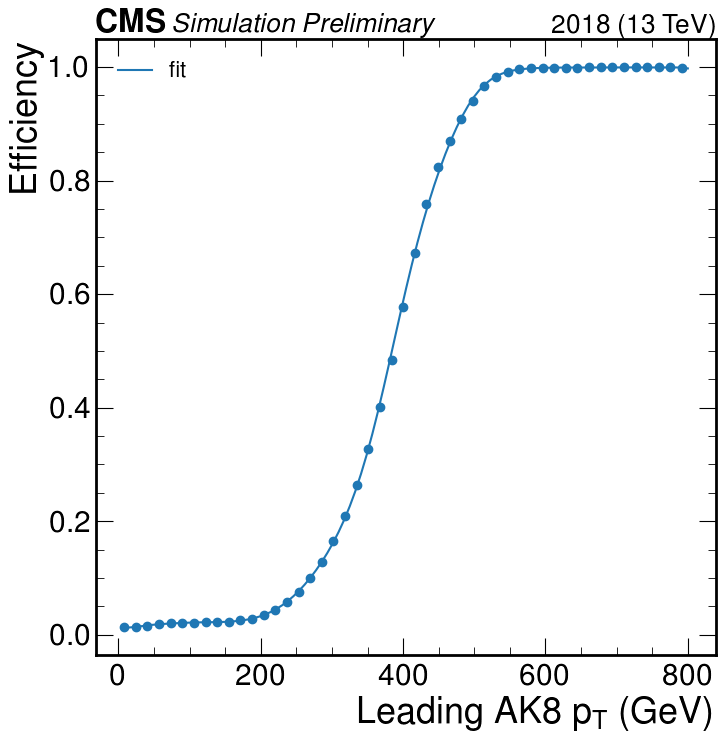
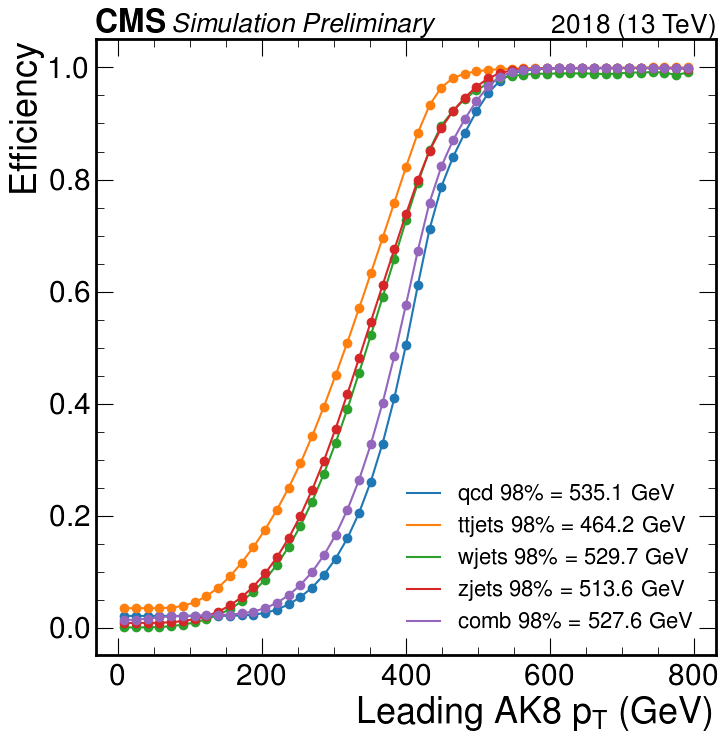
working mt_subl fit

diff --git a/bkg/trigeff_bkg.py b/bkg/trigeff_bkg.py
@@ -16,7 +16,7 @@ BKGS = ['qcd', 'ttjets', 'wjets', 'zjets']
 def main():
     parser = argparse.ArgumentParser()
     parser.add_argument('histograms_file', type=str)
-    parser.add_argument('--var', type=str, default='pt', choices=['pt', 'pt_subl', 'ht', 'met'])
+    parser.add_argument('--var', type=str, default='pt', choices=trig.variables)
     parser.add_argument('--bkg', type=str, nargs='*', default=['all'], choices=BKGS + ['comb', 'all'])
     parser.add_argument('--nomet', action='store_true')
     parser.add_argument('--fit', action='store_true')
@@ -53,6 +53,9 @@ def main():
         
         revcumsum = lambda x: np.cumsum(x[::-1])[::-1]
         eff = revcumsum(h.counts) / revcumsum(h_notrig.counts)
+        print('Warning: using np.maximum.accumulate on efficiency')
+        eff = np.maximum.accumulate(eff)
+
         bin_centers = .5*(h_notrig.binning[:-1] + h_notrig.binning[1:])
 
         line = ax.plot(bin_centers, eff, 'o')[0]
@@ -70,9 +73,10 @@ def main():
             fit = np.poly1d(res)
             x_fine = np.linspace(h_notrig.binning[1], h_notrig.binning[-1], 100)
             ax.plot(x_fine, sigmoid(fit(x_fine)), '-', color=line.get_color(), label='fit')
-            with open('bkg_trigeff_fit_2018.txt', 'w') as f:
+            outfile = 'bkg_trigeff_fit_2018.txt'
+            print('Dumping fit result to {}'.format(outfile))
+            with open(outfile, 'w') as f:
                 json.dump(list(res), f)
-
         else:
             interpolation = trig.Interpolation(bin_centers, eff)
             print(f'Eff for {bkg} at 500 GeV: {interpolation(500.)}')

diff --git a/bkg/build_histogram.py b/bkg/build_histogram.py
@@ -108,6 +108,7 @@ def get_npzfiles(pat, cache_file='cache_npzfiles.json'):
     svj.logger.info(f'Dumping cache in {cache_file}')
     with open(cache_file, 'w') as f:
         json.dump(cache, f)
+    return cache[pat]
 
 
 def worker(tup):
@@ -143,6 +144,7 @@ def worker(tup):
 def main():
     parser = argparse.ArgumentParser()
     parser.add_argument('npzfiles', type=str, nargs='+')
+    parser.add_argument('-o', '--outfile', type=str, default=strftime('histograms_%b%d.json'))
     args = parser.parse_args()
 
     npzfiles = list(itertools.chain(*(get_npzfiles(pat) for pat in args.npzfiles)))
@@ -151,8 +153,8 @@ def main():
     pt_left = lambda f: int(re.search(r'Pt_(\d+)to', f).group(1))
     npzfiles = [f for f in npzfiles if ('QCD' not in f or pt_left(f) >= 170)]
 
-    histograms_file = strftime('histograms_%b%d.json')
-    variables = ['pt', 'ht', 'met', 'pt_subl']
+    histograms_file = args.outfile
+    variables = trig.variables
     bkgs = ['qcd', 'ttjets', 'wjets', 'zjets']
 
     if not osp.isfile(histograms_file):

diff --git a/plot_trigeff.py b/plot_trigeff.py
@@ -12,15 +12,15 @@ import trigger as trig
 def main():
     parser = argparse.ArgumentParser()
     parser.add_argument('npzfiles', type=str, nargs='+')
-    parser.add_argument('--var', type=str, default='pt', choices=['pt', 'pt_subl', 'ht', 'met'])
+    parser.add_argument('--var', type=str, default='pt', choices=trig.variables)
     parser.add_argument('--nomet', action='store_true')
     args = parser.parse_args()
 
     fig = plt.figure(figsize=(8,8))
     ax = fig.gca()
 
-    # binning = trig.binning[args.var]
-    binning = np.linspace(0., 630., 30)
+    binning = trig.binning[args.var]
+    # binning = np.linspace(0., 630., 30)
 
     bin_centers = .5*(binning[1:] + binning[:-1])
 
@@ -32,9 +32,6 @@ def main():
         revcumsum = lambda x: np.cumsum(x[::-1])[::-1]
         h_notrig = revcumsum(np.histogram(vals, binning)[0])
         h_trig = revcumsum(np.histogram(vals[passes], binning)[0])
-
-        
-
         eff = np.where(h_notrig!=0., h_trig/h_notrig, 0.)
 
         meta = col.metadata

diff --git a/trigger.py b/trigger.py
@@ -157,14 +157,22 @@ def put_on_cmslabel(ax):
 var_titles = {
     'pt' : 'Leading AK8 $\mathrm{p}_\mathrm{T}$ (GeV)',
     'pt_subl' : 'Subleading AK8 $\mathrm{p}_\mathrm{T}$ (GeV)',
+    'pt_ak15' : 'Leading AK15 $\mathrm{p}_\mathrm{T}$ (GeV)',
+    'pt_ak15_subl' : 'Subleading AK15 $\mathrm{p}_\mathrm{T}$ (GeV)',
     'ht' : 'HT (GeV)',
     'met' : 'MET (GeV)',
+    'mt_ak15_subl' : '$\mathrm{M}_\mathrm{T}$ of subleading AK15 jet (GeV)'
     }
 
 # Define binning per variable
 binning = dict(
     pt = np.linspace(0., 800., 50),
     pt_subl = np.linspace(0., 800., 50),
+    pt_ak15 = np.linspace(0., 800., 50),
+    pt_ak15_subl = np.linspace(0., 800., 50),
     ht = np.linspace(0., 1400., 60),
     met = np.linspace(0., 700., 50),
+    mt_ak15_subl = np.linspace(0., 1000., 40),
     )
+
+variables = list(sorted(binning.keys()))

diff --git a/bkg/submit.py b/bkg/submit.py
@@ -6,9 +6,9 @@ from jdlfactory import Group, logger
 group = Group.from_file('worker.py')
 group.venv(py3=True)
 group.sh('pip install uproot awkward seutils')
-group.sh('pip install https://github.com/boostedsvj/svj_ntuple_processing/archive/main.zip')
+group.sh('pip install svj_ntuple_processing==0.7')
 
-group.group_data['stageout'] = 'root://cmseos.fnal.gov//store/user/lpcdarkqcd/triggerstudy/bkg_Dec08/TRIGCOL/'
+group.group_data['stageout'] = 'root://cmseos.fnal.gov//store/user/lpcdarkqcd/triggerstudy/bkg_Dec13/TRIGCOL/'
 
 base = 'root://cmseos.fnal.gov//store/user/lpcsusyhad/SusyRA2Analysis2015/Run2ProductionV20/Summer20UL18/'
 cache_file = 'cache_rootfiles.txt'

diff --git a/bkg/README.md b/bkg/README.md
@@ -29,13 +29,13 @@ Use (modify the stageout directory to whatever you used for the jobs):
 python build_histogram.py root://cmseos.fnal.gov//store/user/lpcdarkqcd/triggerstudy/bkg_Dec08/TRIGCOL/Summer20UL18/*/*.npz
 ```
 
-This combines all the data in the .npz files into histograms, before and after triggers are applied. The resulting file is e.g. `histograms_Dec12.json`.
+This combines all the data in the .npz files into histograms, before and after triggers are applied. The resulting file is e.g. `histograms_Dec14.json`.
 
 
 ## Plot the background efficiency curve
 
 ```bash
-python trigeff_bkg.py histograms_Dec12.json
+python trigeff_bkg.py histograms_Dec14.json
 ```
 
 This plots the curves + interpolations for all backgrounds individually (QCD, TTJets, WJets, ZJets) and the combined background.
@@ -46,7 +46,7 @@ This plots the curves + interpolations for all backgrounds individually (QCD, TT
 ## Fit the background efficiency curve
 
 ```bash
-python trigeff_bkg.py histograms_Dec12.json --fit
+python trigeff_bkg.py histograms_Dec14.json --fit
 ```
 
 The resulting fit parameters are stored in `bkg_trigeff_fit_2018.txt`.
@@ -63,9 +63,9 @@ To use it in python, do:
 >>> import numpy as np, requests
 >>> parameters = np.array(requests.get('https://raw.githubusercontent.com/boostedsvj/triggerstudy/main/bkg/bkg_trigeff_fit_2018.txt').json())
 >>> poly = np.poly1d(parameters)
->>> fit = lambda x: np.where(x<800., 1./(1.+np.exp(-poly(x))), 1.)
+>>> fit = lambda x: np.where(x<1000., 1./(1.+np.exp(-poly(x))), 1.)
 >>> fit(np.array([200., 500., 800., 2000.]))
-array([0.03298503, 0.94815078, 1.        , 1.        ])
+array([0.06567134, 0.90411038, 0.99410352, 1.        ])
 ```
 
 ![example fit](example_plots/bkgeff_fit.png)
